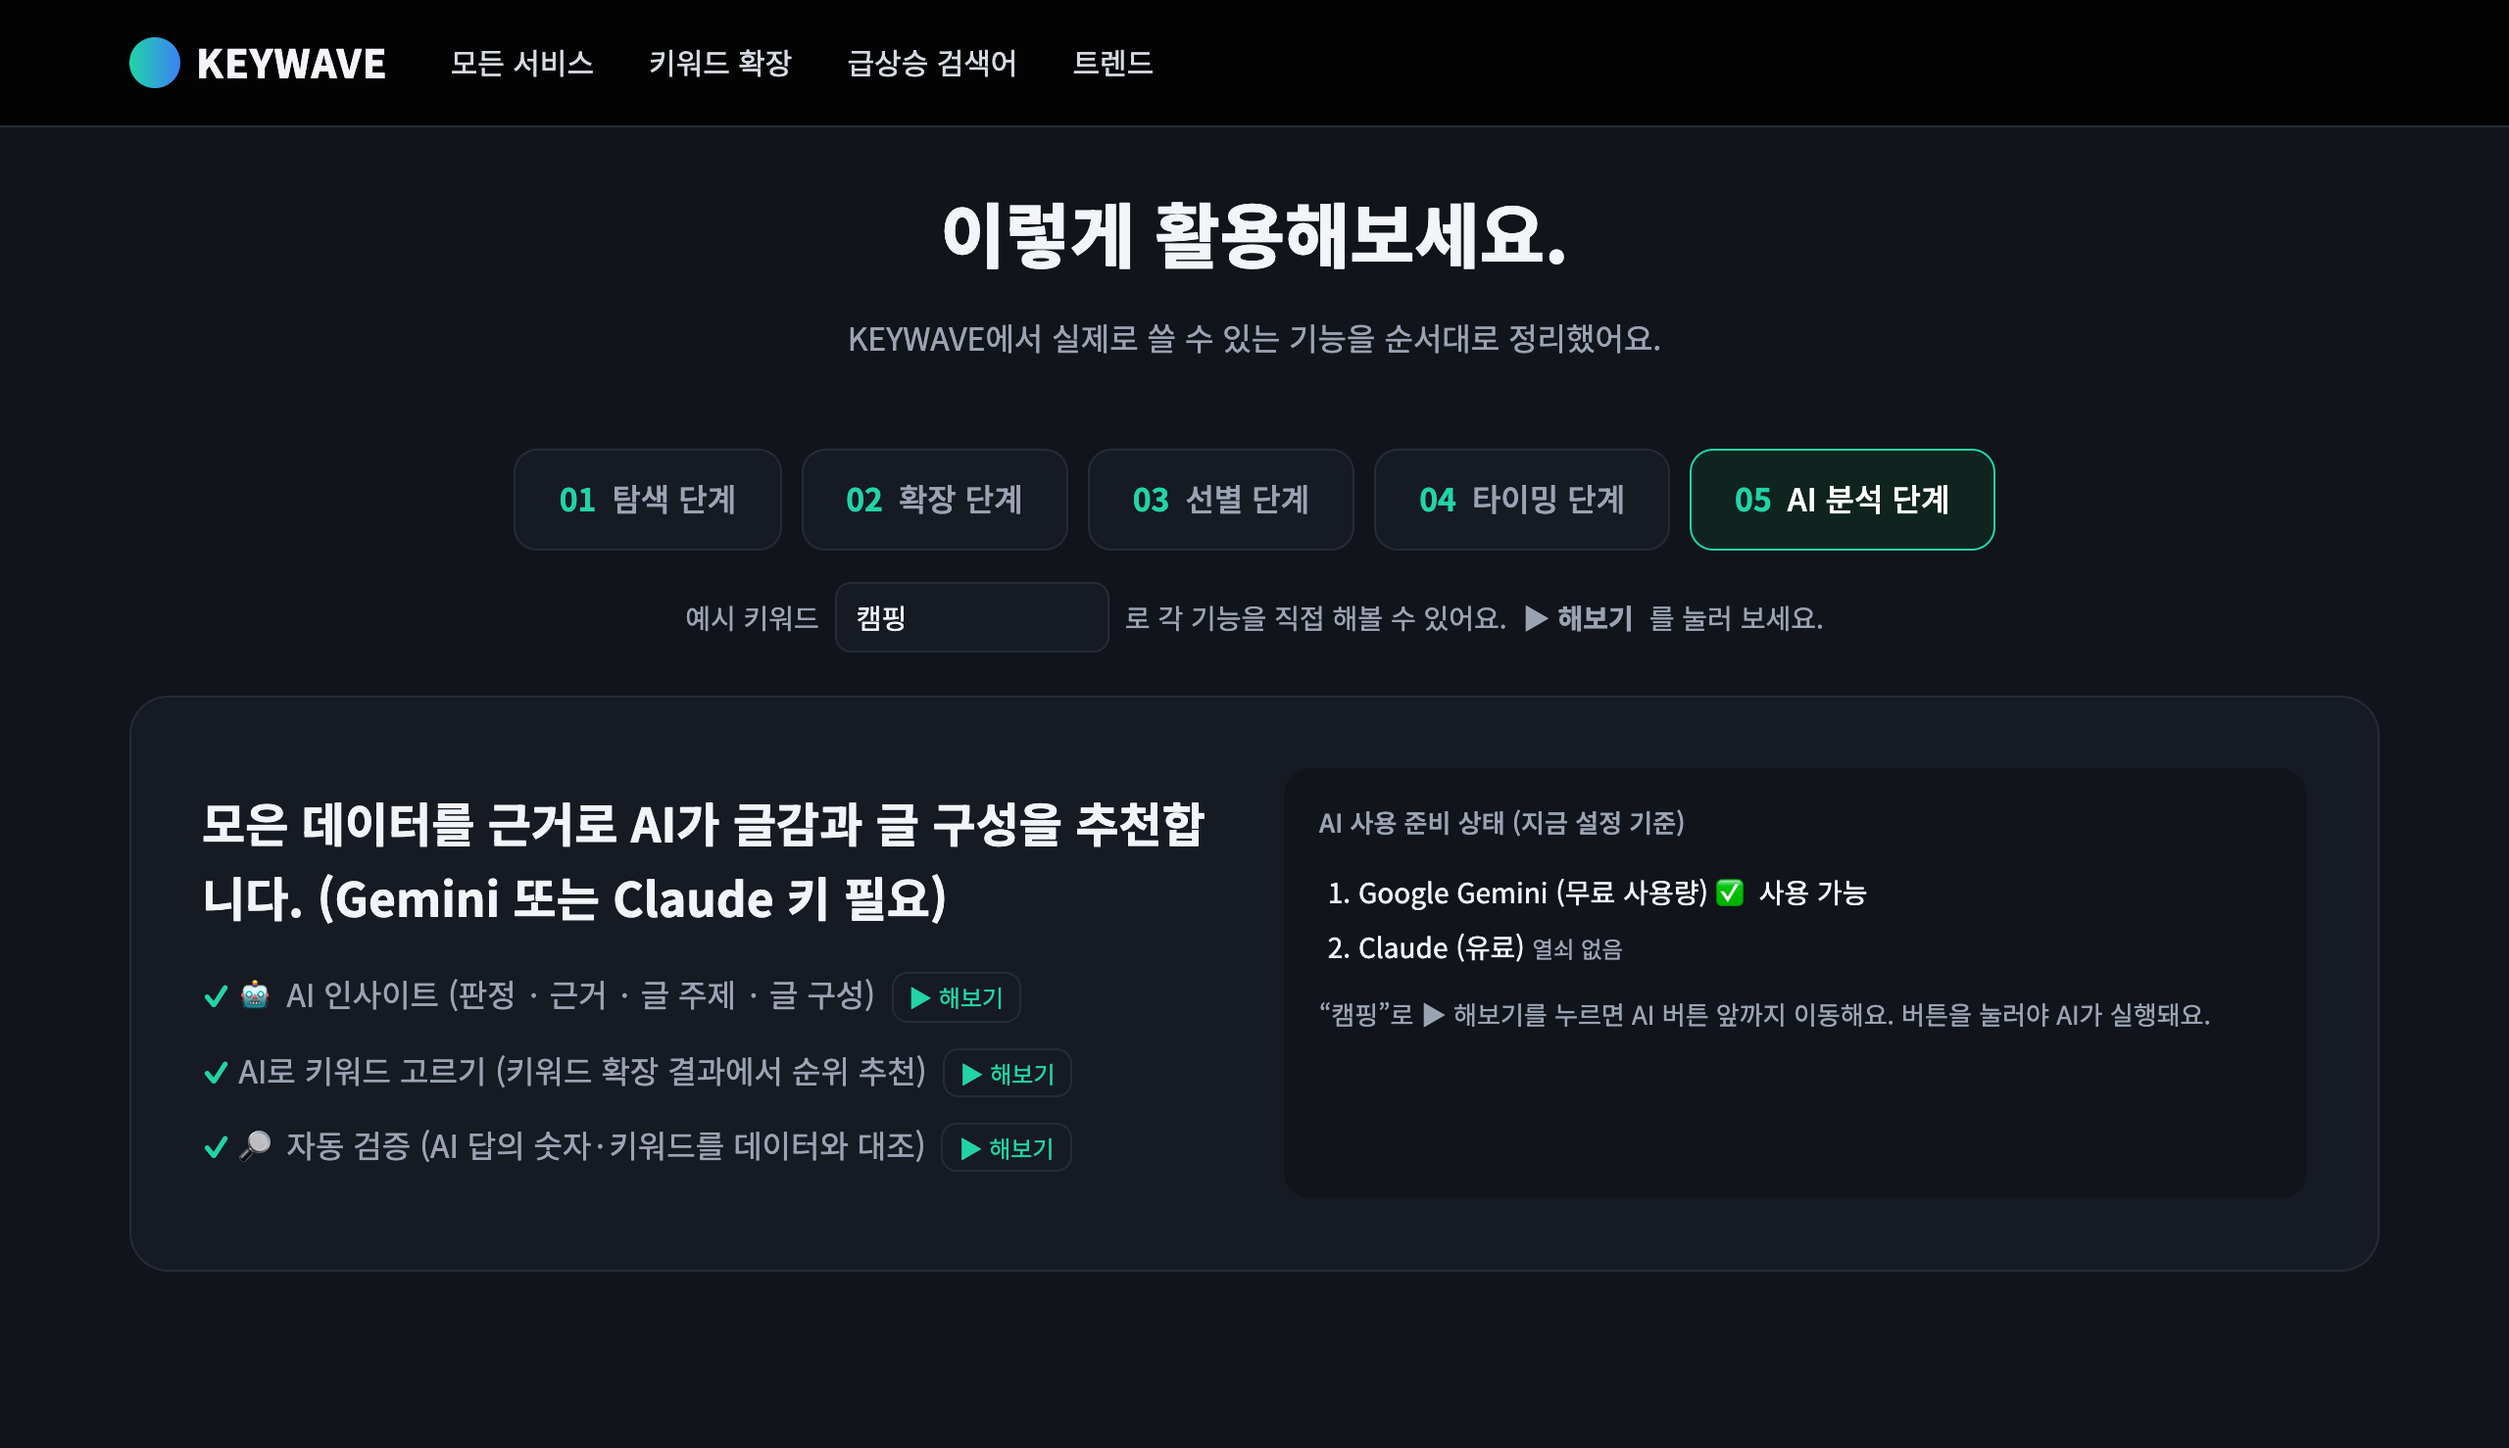
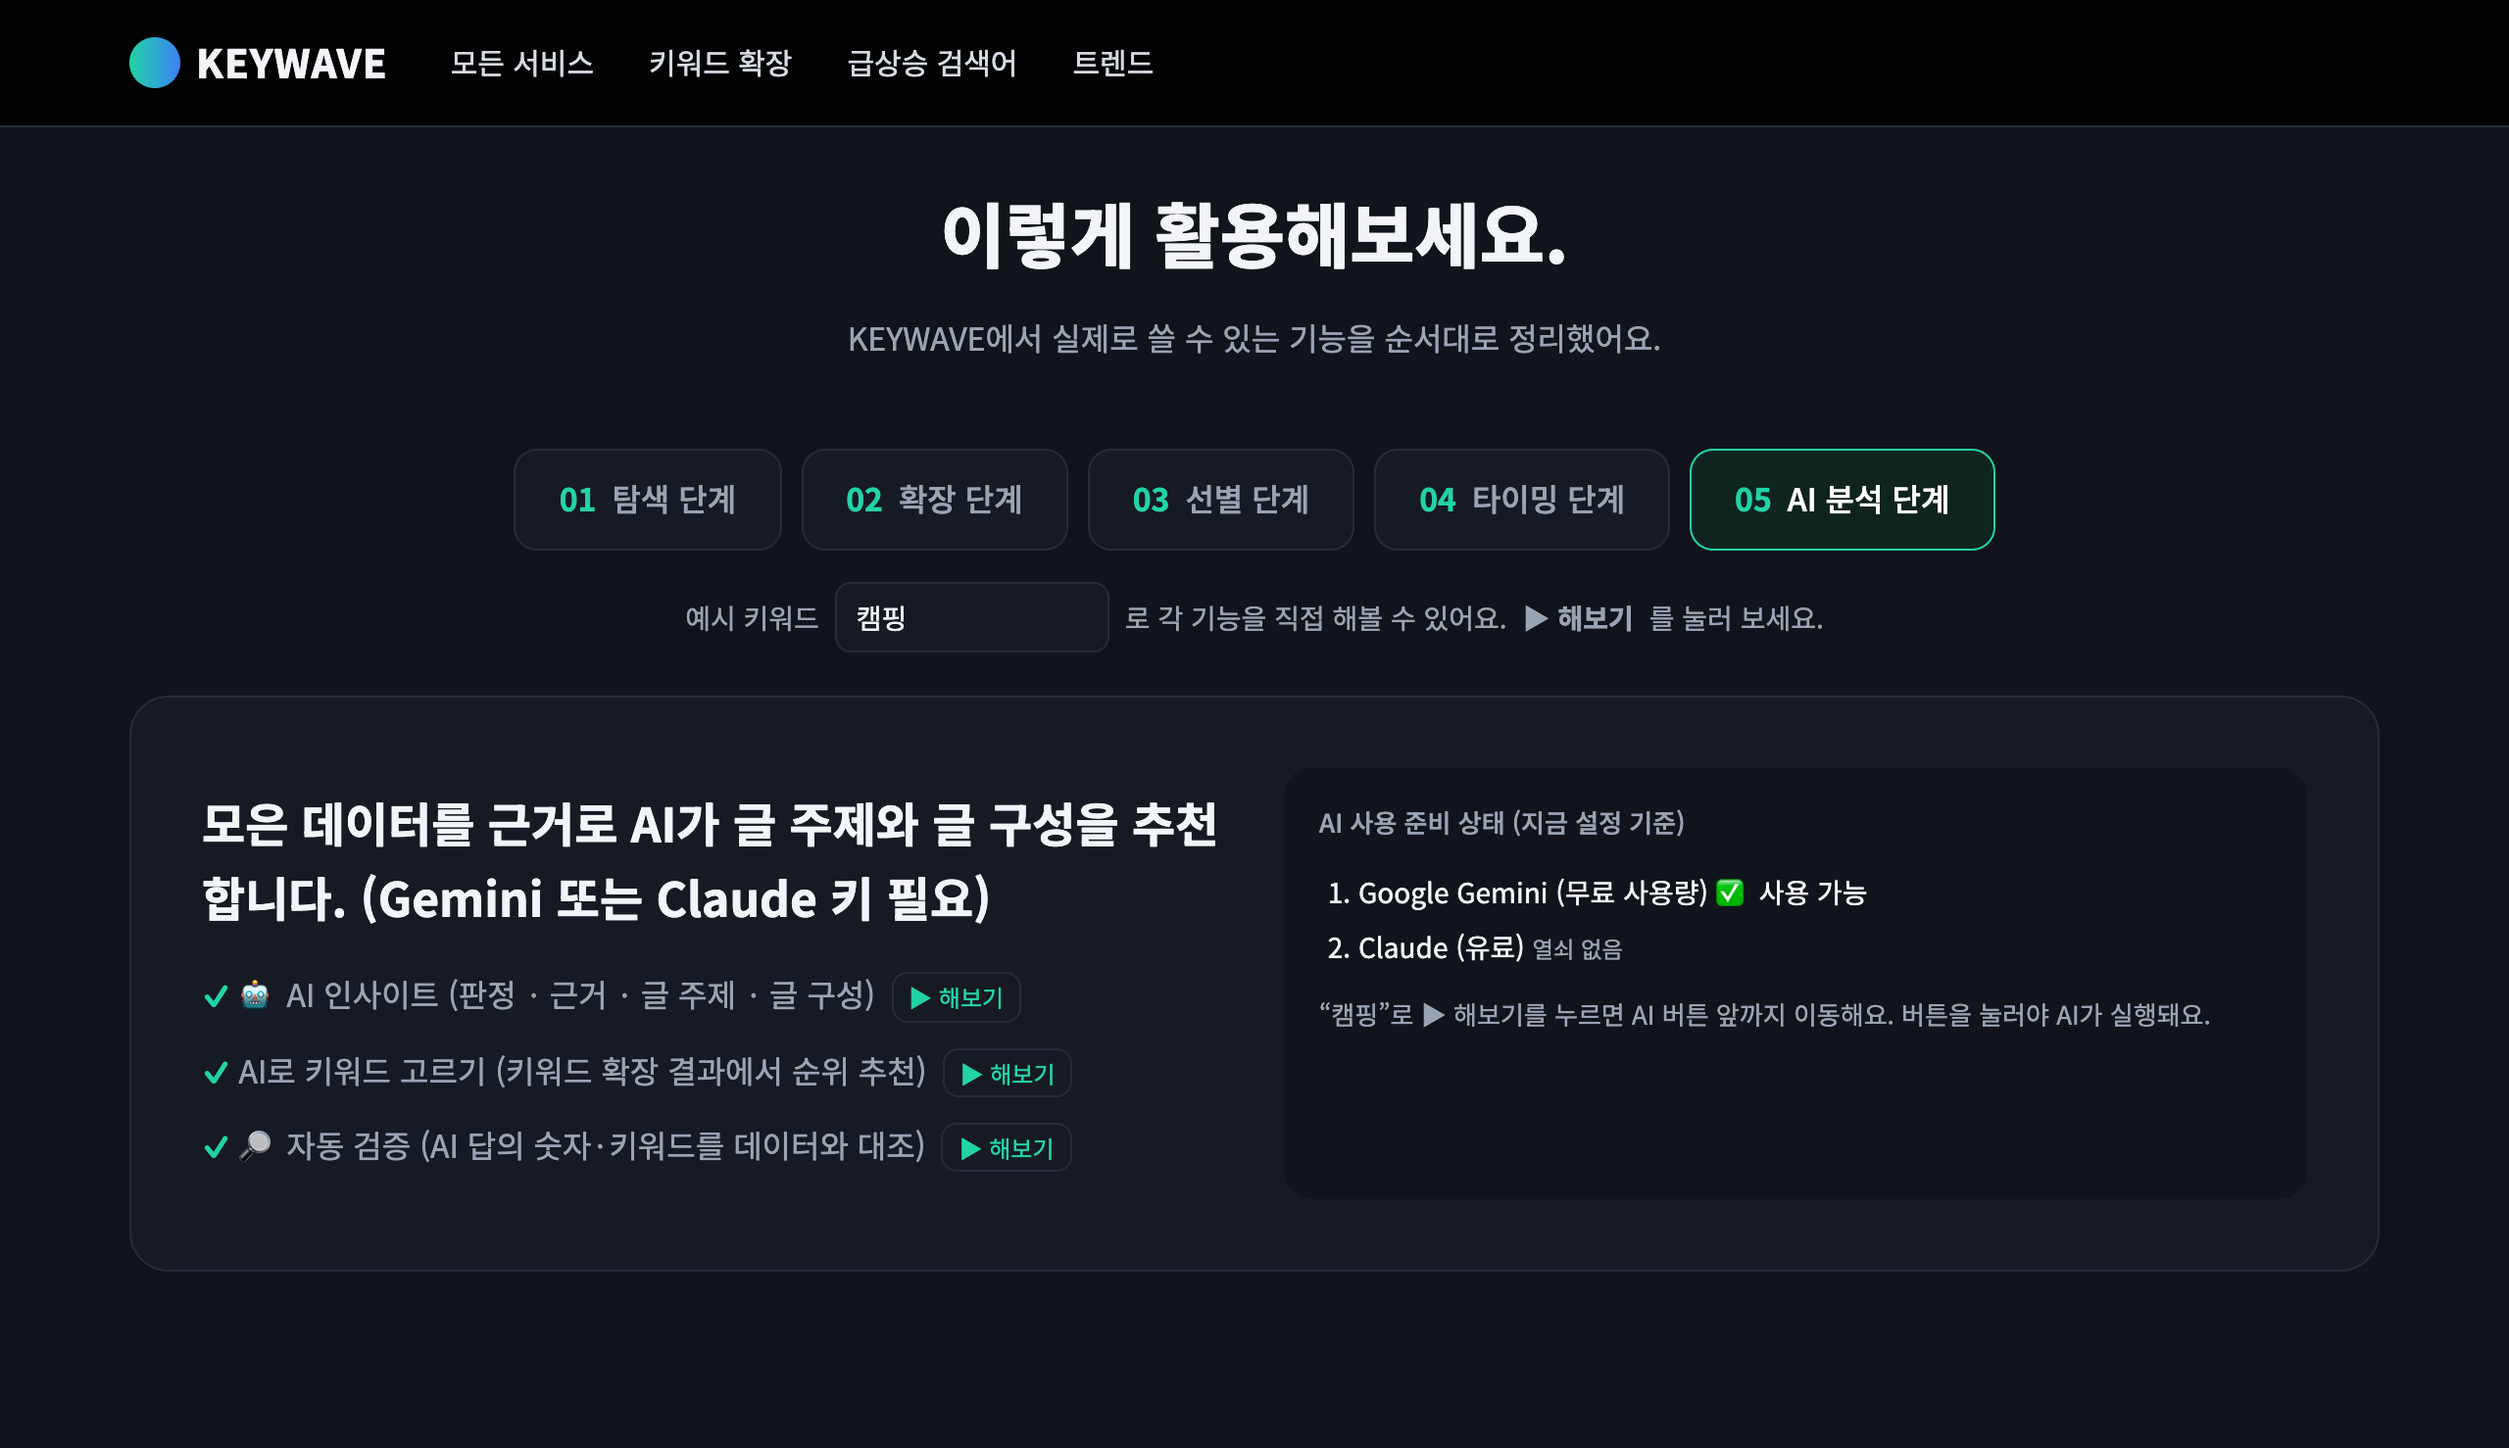
첫 화면 문구 변경, Gemini 한도 초과 시 다른 모델로 자동 전환
- 첫 화면 제목·설명을 "AI 시대의 검색 마케팅을 위한 / 믿을 수 있는 키워드 분석 툴"로 변경
- '글감' 표현을 '키워드'·'글 주제'로 바꿈 (05단계, README)
- Gemini가 무료 한도 초과(429)·응답 지연·붐빔일 때 gemini-2.5-flash → gemini-flash-lite-latest 순으로 자동 전환
- 05단계 화면 이미지 갱신

Changed region(s): [[0.0625, 0.5291, 0.5, 0.6536]]

diff --git a/index.html b/index.html
@@ -275,8 +275,8 @@ footer{border-top:1px solid var(--line);padding:50px 0 30px;color:var(--muted);f
 </div></nav>
 
 <header class="hero"><div class="wrap">
-  <h1>AI가 골라주는 블로그 글감,<br><b>데이터로 확인하세요</b></h1>
-  <p>네이버 <strong>검색량·광고 경쟁·12개월 추이</strong>와 <strong>사이트별 연관 키워드</strong>를 한눈에 보고,<br><strong>🤖 AI 인사이트</strong>로 글로 쓸 <strong>콘텐츠 주제</strong>까지 추천받으세요.</p>
+  <h1>AI 시대의 검색 마케팅을 위한<br><b>믿을 수 있는 키워드 분석 툴</b></h1>
+  <p><strong>AI 추천</strong>을 실제 <strong>네이버 데이터</strong>와 자동으로 대조해,<br>숫자로 확인된 <strong>키워드</strong>와 <strong>콘텐츠 주제</strong>만 골라보세요.</p>
   <form class="search" onsubmit="analyze(event)">
     <select id="engine" aria-label="검색 사이트">
       <option value="검색1">NAVER</option>
@@ -998,7 +998,7 @@ const stepData=[
     ["요일별 검색 비율",async()=>{await analyzeThen("#td"); flashTo(await waitFor(()=>document.querySelector('#tdOut svg[aria-label^="요일"]')?.parentElement));}]], "months"],
   // AI는 쓸 때마다 비용(또는 무료 한도)이 들어서, ▶ 해보기는 실행 버튼이 있는 곳까지만 데려가요
   // (위쪽 사이트별 키워드가 늦게 채워지며 AI 상자를 밀어내므로, 다 불러온 뒤 이동)
-  ["AI 분석 단계","모은 데이터를 근거로 AI가 글감과 글 구성을 추천합니다. (Gemini 또는 Claude 키 필요)",[
+  ["AI 분석 단계","모은 데이터를 근거로 AI가 글 주제와 글 구성을 추천합니다. (Gemini 또는 Claude 키 필요)",[
     ["🤖 AI 인사이트 (판정 · 근거 · 글 주제 · 글 구성)",()=>aiThen()],
     ["AI로 키워드 고르기 (키워드 확장 결과에서 순위 추천)",async()=>{exSeeds.value=exWord(); await runExpand(); flashTo(document.getElementById("exAI"));}],
     ["🔎 자동 검증 (AI 답의 숫자·키워드를 데이터와 대조)",()=>aiThen()]], "ai"]

diff --git a/server.py b/server.py
@@ -482,7 +482,9 @@ def ai_friendly(e):
 
 GEMINI_BASE = "https://generativelanguage.googleapis.com/v1beta"
 GEMINI_MODEL = "gemini-3.8-flash"   # 무료 사용량이 있는 모델 (ai.google.dev 요금표 기준)
-GEMINI_FALLBACK = "gemini-2.5-flash"  # GEMINI_MODEL이 붐빌 때(503) 대신 쓰는 모델
+# GEMINI_MODEL이 붐비거나(503) 무료 한도를 다 썼거나(429) 답이 늦을 때 차례로 대신 쓰는 모델.
+# 무료 한도는 모델마다 따로라서, 한 모델 한도를 다 써도 다른 모델은 쓸 수 있어요.
+GEMINI_FALLBACKS = ["gemini-2.5-flash", "gemini-flash-lite-latest"]
 
 
 def gemini_friendly(e):
@@ -495,7 +497,7 @@ def gemini_friendly(e):
     if code in (400, 403) and ("API key" in body or "API_KEY" in body):
         return "Gemini 열쇠가 틀렸어요 — 🔑 열쇠 넣기에서 다시 저장해 주세요"
     if code == 503:
-        return f"Gemini가 지금 붐벼서 {GEMINI_MODEL}·{GEMINI_FALLBACK} 둘 다 답을 못 받았어요. 몇 분 뒤 다시 해 주세요 (열쇠 문제가 아니에요)"
+        return "Gemini가 지금 붐벼서 답을 못 받았어요. 몇 분 뒤 다시 해 주세요 (열쇠 문제가 아니에요)"
     if code == 429:
         return "오늘(또는 지금 1분) 무료 사용량을 다 썼어요. 잠시 뒤나 내일 다시 해 주세요"
     if code == 404:
@@ -535,18 +537,32 @@ def ask_gemini(system, data, schema):
         "contents": [{"role": "user", "parts": [{"text": "[데이터]\n" + json.dumps(data, ensure_ascii=False)}]}],
         "generationConfig": {"responseMimeType": "application/json", "responseSchema": gemini_schema(schema)},
     }
-    # 503(잠깐 붐빔)이면 5초 쉬고 한 번 더 묻고, 그래도 붐비면 GEMINI_FALLBACK 모델로 넘어갑니다
-    tries = [(GEMINI_MODEL, 5), (GEMINI_MODEL, 0), (GEMINI_FALLBACK, 5), (GEMINI_FALLBACK, None)]
-    for model, wait in tries:
-        try:
-            res = http_json(f"{GEMINI_BASE}/models/{model}:generateContent",
-                            {"x-goog-api-key": GEMINI_KEY, "Content-Type": "application/json"}, body, timeout=120)  # AI 답은 오래 걸릴 수 있어요
+    # 모델을 차례로 써 봅니다. 붐빔(503)은 5초 쉬고 한 번 더, 한도 초과(429)·응답 늦음·서버 오류는 바로 다음 모델로.
+    # 열쇠가 틀린 것처럼 모델을 바꿔도 안 되는 오류는 바로 알려 줍니다.
+    models, skipped, res = [GEMINI_MODEL] + GEMINI_FALLBACKS, [], None
+    REASON = {429: "무료 한도 초과", 503: "붐빔", 500: "서버 오류", 504: "응답 늦음"}
+    for i, model in enumerate(models):
+        for attempt in range(2):
+            try:
+                res = http_json(f"{GEMINI_BASE}/models/{model}:generateContent",
+                                {"x-goog-api-key": GEMINI_KEY, "Content-Type": "application/json"}, body,
+                                timeout=120 if i == len(models) - 1 else 75)  # AI 답은 오래 걸릴 수 있어요
+                break
+            except Exception as e:
+                code = getattr(e, "code", None)
+                if code == 503 and attempt == 0:
+                    time.sleep(5)
+                    continue
+                if code in REASON or "timed out" in str(e):
+                    skipped.append(f"{model} {REASON.get(code, '응답 늦음')}")
+                    break
+                raise AIError(gemini_friendly(e))
+        if res is not None:
             break
-        except Exception as e:
-            if getattr(e, "code", None) == 503 and wait is not None:
-                time.sleep(wait)
-                continue
-            raise AIError(gemini_friendly(e))
+    if res is None:
+        if all("한도" in x for x in skipped):
+            raise AIError(f"Gemini 무료 사용량을 모든 모델({', '.join(models)})에서 다 썼어요. 잠시 뒤나 내일 다시 해 주세요")
+        raise AIError(f"Gemini 모델을 모두 써 봤지만 답을 못 받았어요 ({' · '.join(skipped)}). 몇 분 뒤 다시 해 주세요 (열쇠 문제가 아니에요)")
     cand = (res.get("candidates") or [{}])[0]
     if cand.get("finishReason") in ("SAFETY", "PROHIBITED_CONTENT", "BLOCKLIST"):
         raise AIError("AI가 이 요청에 대한 답을 거절했어요")
@@ -556,7 +572,7 @@ def ask_gemini(system, data, schema):
         "input": u.get("promptTokenCount", 0),
         "output": u.get("candidatesTokenCount", 0) + u.get("thoughtsTokenCount", 0),
         "cost_usd": 0, "note": "무료 사용량 안에서는 0원",
-        "fallback": model != GEMINI_MODEL and f"{GEMINI_MODEL}이(가) 붐벼서 {model}로 답했어요"}
+        "fallback": bool(skipped) and f"{' · '.join(skipped)} → {model}로 답했어요"}
 
 
 def ask_claude(system, data, schema):
